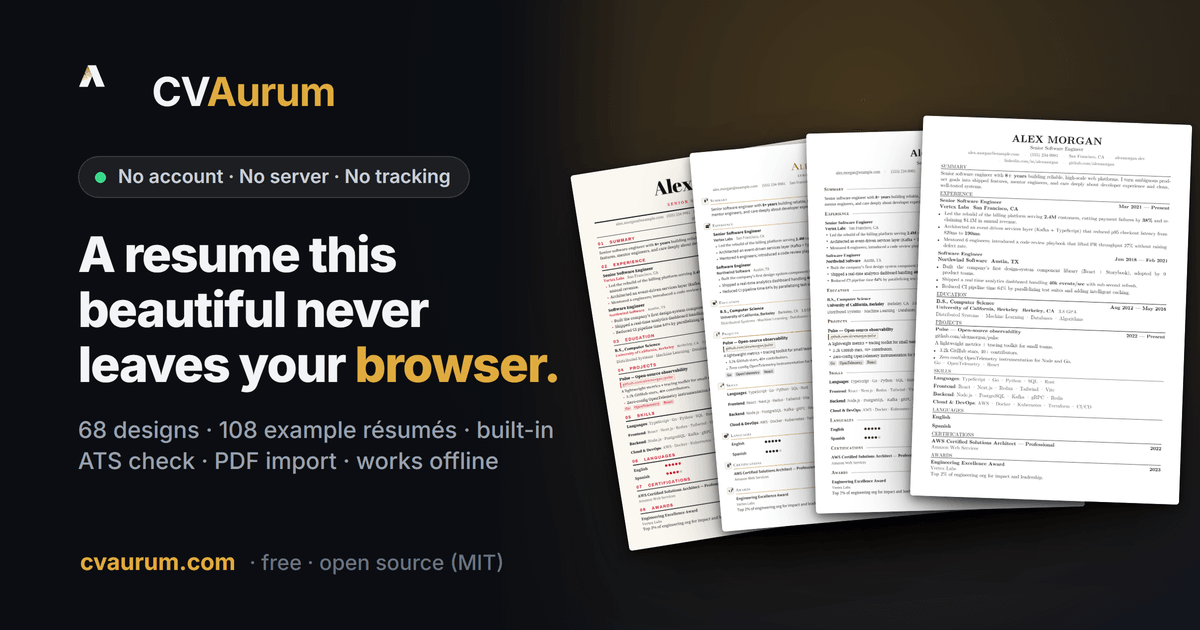
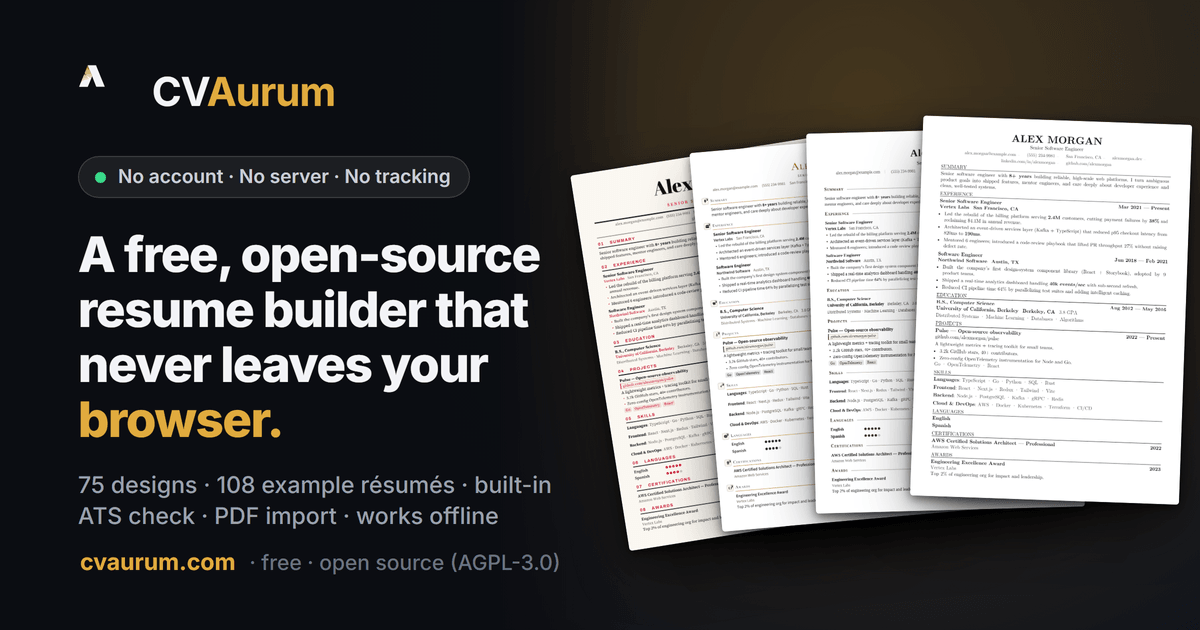
Headline names the product (free, open-source resume builder), FAQ structured data matches the page, honest comparison column, training allowed in robots

diff --git a/index.html b/index.html
@@ -59,7 +59,7 @@
     <meta property="og:image:type" content="image/png" />
     <meta property="og:image:width" content="1200" />
     <meta property="og:image:height" content="630" />
-    <meta property="og:image:alt" content="The CVAurum mark and name, the words no account, no server, no tracking, the line: a resume this beautiful never leaves your browser, the number of designs and example resumes, and four real resume pages fanned beside them." />
+    <meta property="og:image:alt" content="The CVAurum mark and name, the words no account, no server, no tracking, the line: a free, open-source resume builder that never leaves your browser, the number of designs and example resumes, and four real resume pages fanned beside them." />
     <meta property="og:site_name" content="CVAurum" />
     <meta property="og:locale" content="en_US" />
 
@@ -80,7 +80,7 @@
     <meta name="twitter:title" content="Free Open-Source ATS Resume Builder — CVAurum" />
     <meta name="twitter:description" content="Free, open-source resume builder in your browser: 75 templates, an ATS check, and accessible PDF/UA export with WCAG AA contrast. No sign-up, no server." />
     <meta name="twitter:image" content="https://cvaurum.com/og.png" />
-    <meta name="twitter:image:alt" content="The CVAurum mark and name, the words no account, no server, no tracking, the line: a resume this beautiful never leaves your browser, the number of designs and example resumes, and four real resume pages fanned beside them." />
+    <meta name="twitter:image:alt" content="The CVAurum mark and name, the words no account, no server, no tracking, the line: a free, open-source resume builder that never leaves your browser, the number of designs and example resumes, and four real resume pages fanned beside them." />
 
     <!-- Structured data: rich result for the app -->
     <script type="application/ld+json">
@@ -100,7 +100,7 @@
       "license": "https://www.gnu.org/licenses/agpl-3.0.html",
       "isAccessibleForFree": true,
       "offers": { "@type": "Offer", "price": "0", "priceCurrency": "USD" },
-      "author": { "@type": "Person", "name": "Akhil Dara", "url": "https://github.com/akhil-dara" },
+      "author": { "@type": "Person", "@id": "https://cvaurum.com/#author", "name": "Akhil Dara", "url": "https://github.com/akhil-dara", "sameAs": ["https://github.com/akhil-dara"] },
       "publisher": { "@id": "https://cvaurum.com/#org" },
       "codeRepository": "https://github.com/akhil-dara/cvaurum",
       "softwareHelp": "https://github.com/akhil-dara/cvaurum",
@@ -161,12 +161,17 @@
         {
           "@type": "Question",
           "name": "Where is my data stored?",
-          "acceptedAnswer": { "@type": "Answer", "text": "Only in your browser, using local storage. Nothing is sent anywhere. Clear your browser data and it's gone — so use Backup to keep a copy." }
+          "acceptedAnswer": { "@type": "Answer", "text": "Only in your browser, in its own storage (IndexedDB). Nothing is sent anywhere. Clear your browser data and it's gone — so use Backup to keep a copy." }
         },
         {
           "@type": "Question",
           "name": "Will my résumé pass ATS scans?",
           "acceptedAnswer": { "@type": "Answer", "text": "The exported PDF and Word files use real, selectable text (not an image), and there's a built-in ATS check that scores structure and keyword coverage against a job description." }
+        },
+        {
+          "@type": "Question",
+          "name": "Do numbered headings, bullet glyphs and decorative marks break ATS parsing?",
+          "acceptedAnswer": { "@type": "Answer", "text": "Not here, and the answer is measured rather than assumed. Decoration is painted as vector outlines, so it never becomes text: the two designs that print a running number beside each heading export those headings as SUMMARY and EXPERIENCE, with no numeral in the text at all. Across all 75 designs the exported text layer matches the app's own \"what an ATS sees\" preview word for word — nothing missing, nothing added, nothing out of order — which also means the file carries no word your content does not have. Bullet markers are the deliberate exception: each one is real text sitting on the same line as its sentence (623 of them across the 75 designs, none stranded alone on a line), so a list you copy out of the PDF is still a list." }
         },
         {
           "@type": "Question",
@@ -191,7 +196,7 @@
         {
           "@type": "Question",
           "name": "Can I edit on my phone?",
-          "acceptedAnswer": { "@type": "Answer", "text": "Yes. The drag-and-drop canvas is a desktop surface, so on a phone the form panel is the editor — and everything the canvas offers is reachable there: contact icons, section heading links, and each section's full style sheet (heading style, skills layout, badge size and shape, bullets) opens as a bottom sheet. Nothing scrolls sideways, and your work syncs to the same resume you edit on a laptop." }
+          "acceptedAnswer": { "@type": "Answer", "text": "Yes, on the page and in the form panel. The page is editable on a phone too (every control gets a finger-sized hit area and the zoom reaches 300%), and the panel is the comfortable route on a small screen — everything the canvas offers is reachable there: contact icons, section heading links, and each section's full style sheet (heading style, skills layout, badge size and shape, bullets) opens as a bottom sheet. Nothing scrolls sideways, and your work syncs to the same resume you edit on a laptop." }
         },
         {
           "@type": "Question",
@@ -211,7 +216,7 @@
         {
           "@type": "Question",
           "name": "How long should my resume be?",
-          "acceptedAnswer": { "@type": "Answer", "text": "For most roles, one page — two if you have 10+ years of experience. CVAurum auto-fits your content to a single page when it's close, and shows live page-break guides so you always know where you stand." }
+          "acceptedAnswer": { "@type": "Answer", "text": "For most roles, one page — two if you have 10+ years of experience. Magic fit sizes type and spacing to the page count you pick (one, two or three) inside rules you set, such as a body size it never goes below and sizes it must keep as set, and tells you exactly what it chose; live page-break guides show where you stand, and Suggest measures a few moves that would fit better." }
         }
       ]
     }

diff --git a/src/data/siteCopy.ts b/src/data/siteCopy.ts
@@ -42,7 +42,10 @@ export interface SiteCopy {
 export const SITE: SiteCopy = {
   name: 'CVAurum',
   oneLiner: `CVAurum is a free, open-source (AGPL-3.0) résumé builder that runs entirely in your browser: no account, no server, no tracking; ${TEMPLATE_COUNT} templates, ${SAMPLE_COUNT} complete example résumés, a built-in deterministic ATS check, PDF import with on-device OCR, and vector PDF, Word and JSON Resume export, working offline as an installable app.`,
-  hero: 'A resume this beautiful never leaves your browser.',
+  // The h1 names what the page is: searchers type "free", "open source" and
+  // "resume builder", and the line before this had none of them (SEO audit,
+  // 2026-11-07). The old line lives on as the hero's subhead.
+  hero: 'A free, open-source resume builder that never leaves your browser.',
   steps: [
     {
       title: 'Pick a template',
@@ -62,42 +65,42 @@ export const SITE: SiteCopy = {
     {
       capability: 'Where your data lives',
       cvaurum: 'Only in your browser — no server, no account, no tracking',
-      others: 'Uploaded to a server behind a login',
+      others: 'Does it upload your résumé to its server, behind a login?',
     },
     {
       capability: 'Source code',
       cvaurum: 'Fully open source (AGPL-3.0) — read it, fork it, self-host it',
-      others: 'Closed — you take the privacy claims on faith',
+      others: 'Can you read its code, or only its privacy policy?',
     },
     {
       capability: 'Templates',
       cvaurum: `${TEMPLATE_COUNT} designer templates, restylable section by section`,
-      others: 'A few basic layouts, polish behind a paywall',
+      others: 'How many designs are free, and which sit behind a paywall?',
     },
     {
       capability: 'ATS check',
       cvaurum: 'Built-in deterministic score + job-description keyword match',
-      others: 'None, or an opaque AI score you can’t reproduce',
+      others: 'Does it show which keywords matched, and give the same score twice?',
     },
     {
       capability: 'Offline',
       cvaurum: 'All fonts self-hosted — zero external requests, truly offline',
-      others: 'Pulls fonts/assets from CDNs — still phones home',
+      others: 'Does it still work with the network switched off?',
     },
     {
       capability: 'Export formats',
       cvaurum: 'Vector PDF (PDF/A-2B archival + PDF/UA-1 accessible), Word .docx, and JSON Resume',
-      others: 'PDF only, often a flattened image',
+      others: 'Is the PDF real, selectable text, or a picture of the page?',
     },
     {
       capability: 'Accessibility',
       cvaurum: 'A tagged PDF/UA-1 file, and every design’s text meets WCAG AA contrast — checked live as you edit',
-      others: 'An untagged PDF, with contrast left to chance',
+      others: 'Is the PDF tagged for screen readers?',
     },
     {
       capability: 'Price',
       cvaurum: 'Free, forever — no tiers, no upsell',
-      others: 'Free to start, then paywalled to export',
+      others: 'Is the download free, or only the editor?',
     },
   ],
   faq: [
@@ -115,7 +118,7 @@ export const SITE: SiteCopy = {
     },
     {
       q: 'Where is my data stored?',
-      a: "Only in your browser, using local storage. Nothing is sent anywhere. Clear your browser data and it's gone — so use Backup to keep a copy.",
+      a: "Only in your browser, in its own storage (IndexedDB). Nothing is sent anywhere. Clear your browser data and it's gone — so use Backup to keep a copy.",
     },
     {
       q: 'Will my résumé pass ATS scans?',

diff --git a/src/routes/Landing.tsx b/src/routes/Landing.tsx
@@ -7,7 +7,7 @@ import { SkipLink } from '@/components/ui/SkipLink'
 import { CreateButton, HeaderThemeToggle, PhoneResumesLink } from '@/components/site/HeaderActions'
 import { useRef, useState } from 'react'
 import { Link } from 'react-router-dom'
-import { FileText, Plus, ArrowRight, Github, Check, Minus } from 'lucide-react'
+import { FileText, Plus, ArrowRight, Github, Check, CircleHelp } from 'lucide-react'
 import { useAppStore } from '@/store/useAppStore'
 import { TEMPLATE_COUNT, TEMPLATES } from '@/templates/registry'
 import { SAMPLE_COUNT } from '@/data/library/count'
@@ -254,8 +254,8 @@ export function Landing() {
               How it compares, honestly
             </h2>
             <p className="mx-auto mt-2 max-w-2xl text-sm text-muted-foreground">
-              Privacy, or open source, or design, or ATS, or offline — most tools pick one. Here's the honest
-              head-to-head.
+              Privacy, open source, design, ATS, offline: what CVAurum does on each, measured, and the question
+              worth asking of any other builder you are weighing.
             </p>
           </div>
           {/* Narrow screens: two columns of prose can't fit, and a sideways scroller hides the
@@ -275,9 +275,9 @@ export function Landing() {
                   </span>
                 </p>
                 <p className="mt-2 flex gap-2 text-sm text-muted-foreground">
-                  <Minus className="mt-0.5 h-4 w-4 shrink-0" />
+                  <CircleHelp className="mt-0.5 h-4 w-4 shrink-0" />
                   <span>
-                    <span className="font-semibold">Most builders</span> — {r.others}
+                    <span className="font-semibold">Ask of any other builder</span> — {r.others}
                   </span>
                 </p>
               </div>
@@ -291,7 +291,7 @@ export function Landing() {
                   <th className="px-4 py-3 font-bold text-primary">
                     CVAurum
                   </th>
-                  <th className="px-4 py-3 font-medium text-muted-foreground">Most builders</th>
+                  <th className="px-4 py-3 font-medium text-muted-foreground">Ask of any other builder</th>
                 </tr>
               </thead>
               <tbody>

diff --git a/src/data/faqJsonLd.test.ts b/src/data/faqJsonLd.test.ts
@@ -1,0 +1,28 @@
+import { describe, expect, it } from 'vitest'
+import fs from 'node:fs'
+import path from 'node:path'
+import { SITE } from './siteCopy'
+
+/**
+ * The homepage's FAQPage JSON-LD is written into index.html by hand, beside
+ * the visible questions that come from SITE.faq. Structured data must say
+ * what the page says: an answer the reader cannot see is a mismatch search
+ * engines count against a page, and this one had drifted (the phone answer
+ * still said the panel was the only editor; audit, 2026-11-07).
+ */
+describe('homepage FAQ structured data', () => {
+  const html = fs.readFileSync(path.resolve(__dirname, '../../index.html'), 'utf8')
+  const blocks = [...html.matchAll(/<script type="application\/ld\+json">([\s\S]*?)<\/script>/g)].map((m) => JSON.parse(m[1]))
+  const nodes = blocks.flatMap((b) => (b['@graph'] ? b['@graph'] : [b]))
+  const faq = nodes.find((n) => n['@type'] === 'FAQPage')
+  const visible = new Map(SITE.faq.map((f) => [f.q, f.a]))
+
+  it('exists', () => expect(faq).toBeTruthy())
+
+  it('asks only questions the page shows, answered word for word as the page answers them', () => {
+    for (const q of faq.mainEntity) {
+      expect(visible.has(q.name), `not on the page: ${q.name}`).toBe(true)
+      expect(q.acceptedAnswer.text, q.name).toBe(visible.get(q.name))
+    }
+  })
+})

diff --git a/src/components/landing/HeroTypeOnce.tsx b/src/components/landing/HeroTypeOnce.tsx
@@ -113,7 +113,8 @@ export function HeroTypeOnce({
             {lead} <span className="text-[#8a5a12] dark:text-[#e2b04f]">{last}</span>
           </h1>
           <p className="mt-5 max-w-md text-base leading-relaxed text-[#4a4d57] dark:text-muted-foreground">
-            {TEMPLATE_COUNT} designs, a built-in ATS check and a real vector PDF. Free and open source, with nothing to sign up for.
+            A résumé this beautiful, made and kept on your own device: {TEMPLATE_COUNT} designs, a built-in ATS check and a real
+            vector PDF, with nothing to sign up for.
           </p>
         </div>
 
